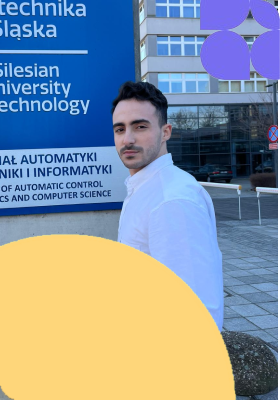
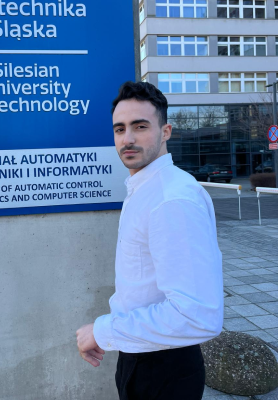
Updated Team section, cleaned some unused files

diff --git a/smmwebreact/src/components/TeamSection.tsx b/smmwebreact/src/components/TeamSection.tsx
@@ -1,42 +1,42 @@
 import React from 'react';
 import ProfileCard from './ProfileCard';
+import SectionContainer from './templates/SectionContainer';
 
 const TeamSection = () => {
     return (
         <section id="aboutus">
-            <div className="bg-gray-100 p-10">
-                <div className="text-center">
-                    <p className="uppercase text-sm text-gray-500 mb-10">ZESPÓL</p>
-
-                    <h2 className="text-4xl font-semibold mb-6">Zespól TopStrony</h2>
-                </div>
-
-                <div className="flex flex-col md:flex-row justify-center items-center space-y-4 md:space-y-0 md:space-x-4 min-h-[400px]">
-                    {/* Text Description */}
-                    <div className=" bg-yellow p-6 rounded-3xl shadow-md max-w-md min-h-[360px]">
-                        <h3 className="text-xl font-bold mb-3">Cześć!</h3>
-                        {/* To change */}
-                        <p className="text-gray-700">
-                            Jako założyciele, ja, Andrii, specjalizuję się w rozwiązaniach technologicznych, natomiast Youssef w strategiach biznesowych. Nasza firma oferuje wysokiej jakości usługi w zakresie projektowania stron internetowych, SEO oraz zarządzania mediami społecznościowymi, gwarantując naszym klientom przewagę konkurencyjną na rynku.
-                        </p>
+            <SectionContainer
+                title='Zespół WeboKraft'
+                subtitle='ZESPÓŁ'
+            >
+                <div className="max-w-6xl mx-auto px-4 sm:px-6 lg:px-8 grid grid-cols-2 md:grid-cols-3 lg:grid-cols-3 gap-4">
+                    <div className="bg-purple p-8 rounded-2xl shadow-md max-w-md min-h-[360px] flex flex-col justify-between"> {/* Adjusted for button spacing */}
+                        <div> {/* Content container */}
+                            <h3 className="text-3xl text-white font-bold mb-3">Cześć! 👋</h3>
+                            <p className="text-gray-300">
+                                Nasz zespół składa się z profesjonalistów w dziedzinie rozwoju stron internetowych.
+                                <br></br>
+                                <span className='font-bold text-white'>Andrii,</span> specjalista od SMM, i <span className='font-bold text-white'>Youssef, </span> ekspert SEO, wspólnie podnoszą obecność każdej firmy w internecie. 🌐💪
+                            </p>
+                        </div>
+                        <button className="mt-4 border-2 border-white text-white py-2 px-4 rounded-lg hover:bg-white hover:text-purple transition duration-300 font-bold">Kontakt</button> {/* New Button */}
                     </div>
 
-                    <div className="flex justify-center items-center space-x-4">
-                        <ProfileCard
-                            name="Andrii"
-                            surname=" Bobchuk"
-                            titles={["Web Developer", "SMM Specialist"]}
-                            cardImg="/andrii_card.png"
-                        />
-                        <ProfileCard
-                            name="Youssef"
-                            surname="Al bali"
-                            titles={["Web Developer", "SEO Specialist"]}
-                            cardImg="/youssef_card.png"
-                        />
-                    </div>
+                    <ProfileCard
+                        name="Andrii"
+                        surname=" Bobchuk"
+                        titles={["Web Developer, SMM Specialist"]}
+                        cardImg="/IMG_1757.jpg"
+                    />
+                    <ProfileCard
+                        name="Youssef"
+                        surname="Al bali"
+                        titles={["Web Developer, SEO Specialist"]}
+                        cardImg="/youssef_card.png"
+                    />
                 </div>
-            </div>
+            </SectionContainer>
+
         </section>
     );
 };

diff --git a/smmwebreact/src/components/ProfileCard.tsx b/smmwebreact/src/components/ProfileCard.tsx
@@ -1,23 +1,24 @@
 import React from 'react';
 
-const ProfileCard = ({ name, surname, titles, cardImg }: { name: string, surname: string, titles: string[], cardImg: string }) => {
+const ProfileCard = ({ name, surname, titles, cardImg, className }: { name: string, surname: string, titles: string[], cardImg: string, className?: string }) => {
     return (
-        <div className="relative bg-white p-6 rounded-3xl shadow-md flex flex-col items-center min-h-[400px] min-w-60">            {/* Background image */}
+        <div className={`relative bg-white p-6 rounded-2xl shadow-md flex flex-col items-center min-h-[400px] min-w-[240px] ${className}`}>
+            {/* Background image */}
             <img
                 src={cardImg}
                 alt="Background"
-                className="absolute top-0 left-0 w-full h-full object-cover rounded-3xl"
+                className="absolute top-0 left-0 w-full h-full object-cover rounded-2xl z-0"
             />
-
-
-            {/* Name and title */}
-            <div className="absolute bottom-0 left-0 p-6">
-                <h4 className="text-xl font-bold">{name}</h4>
-                <h4 className="text-xl font-bold">{surname}</h4>
-                {titles.map((title, index) => (
-                    <p key={index} className="text-gray-600">{title}</p>
-                ))}            </div>
-
+            {/* Overlay rectangle inside the card, snapped to the bottom and see-through */}
+            <div className="absolute bottom-0 left-0 bg-yellow bg-opacity-95 h-20 w-full z-10 rounded-b-2xl flex items-center justify-center">
+                {/* Content on top of the overlay */}
+                <div className="z-20 relative p-6">
+                    <h4 className="text-xl font-bold">{name} {surname}</h4>
+                    {titles.map((title, index) => (
+                        <p key={index} className="text-gray-600">{title}</p>
+                    ))}
+                </div>
+            </div>
         </div>
     );
 };
